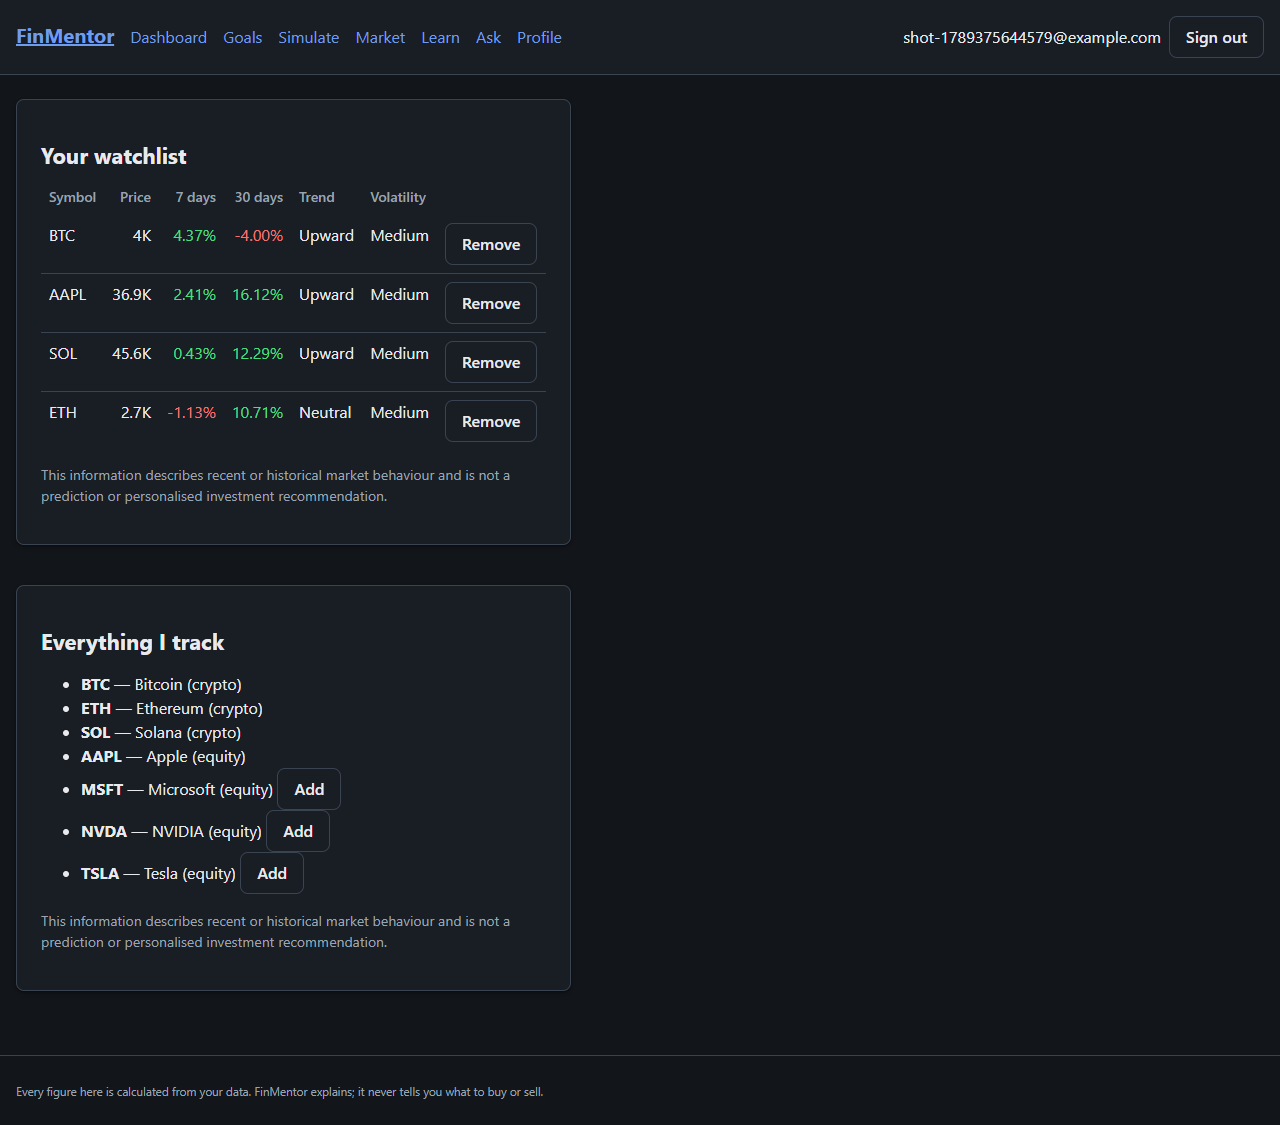
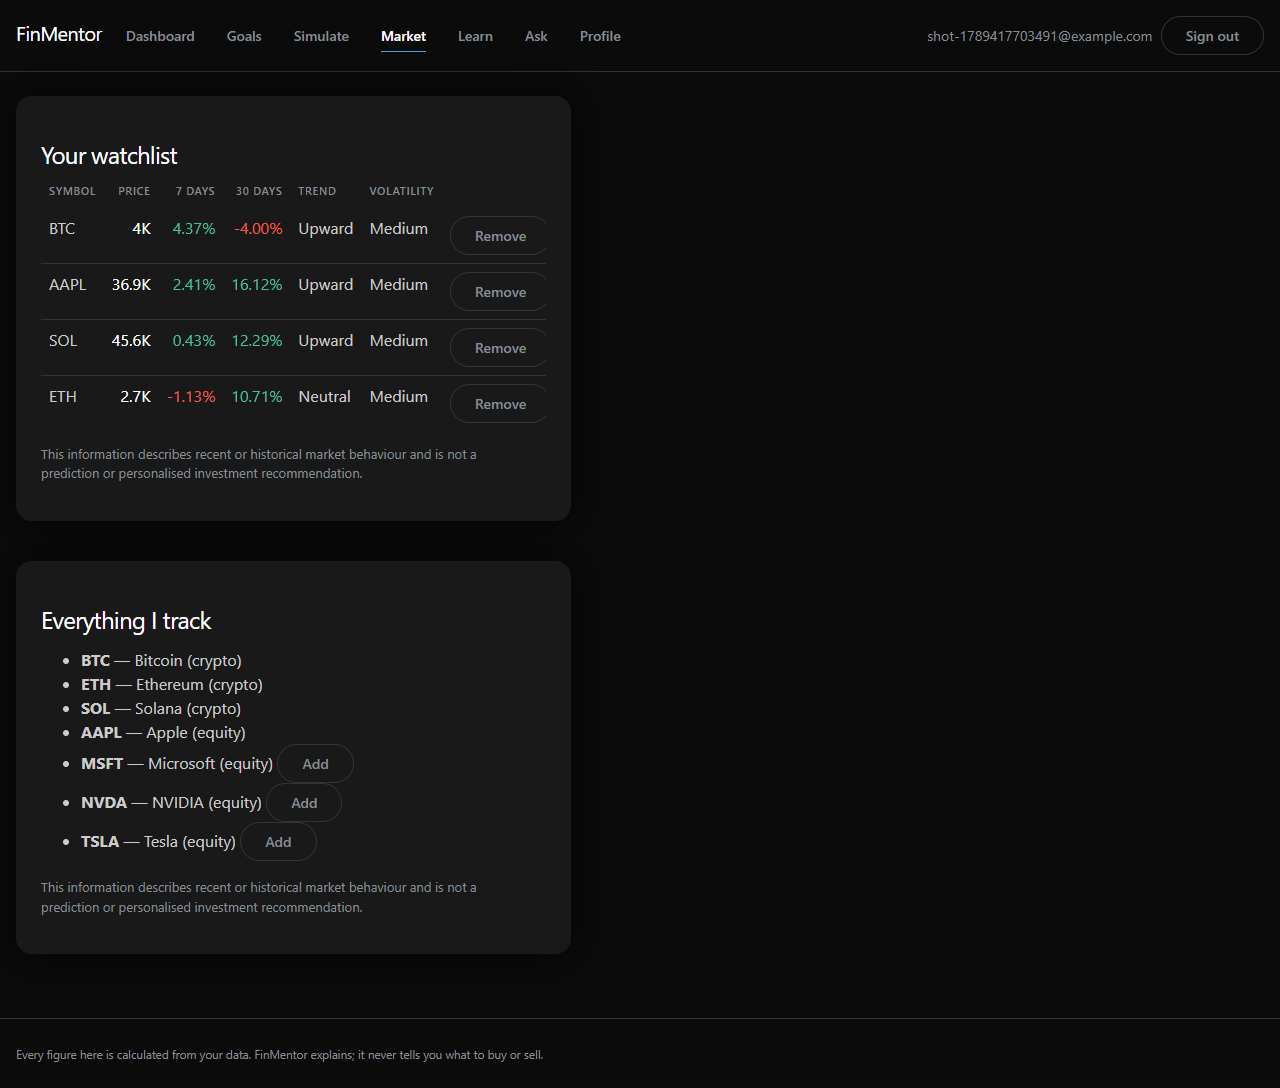
feat(web): the dashboard reads like the screen it is
Five changes, each from looking at the rendered page rather than the markup.

The score is sized like a score. It was a sentence at heading size with the
one figure that matters buried in the middle of it; it is now a grey label
over a display-size number, with the denominator in muted type beside it.

Two columns on a wide screen. `main` caps at the 68ch reading measure, which
is right for a form or a page of explanations and wrong for five independent
readouts: on a desktop it left half the screen black. The dashboard, and only
the dashboard, gets `wide cols`, with the score panel spanning both. Below
900px nothing applies and the sections stack as before. `main.wide` had been
dead CSS since it was written; this is what it was for.

Goals and watchlist rows were single run-on lines held together by middle
dots. They are now a name and a figure on one line, with the detail under it
in grey, so the figures form a column the eye can run down.

Loading is a skeleton shaped like the result rather than the word "Loading".
`AsyncBoundary` takes an optional `skeleton`, and keeps `aria-busy` on it, so
the shimmer in motion.css and the screen-reader announcement stay the same
declaration.

Small ones that were plainly wrong once visible: a points cell wrapping
"20.0 / 20" onto two lines and reading as two figures, a table caption
centred away from its table, and paired lists that lined up differently
depending on whether the JSX wrapped each pair in a div.
[…]

diff --git a/finmentor/web/src/styles/layout.css b/finmentor/web/src/styles/layout.css
@@ -146,7 +146,21 @@
 .whoami { margin: 0 0 0 auto; display: flex; align-items: center; gap: var(--space-2); }
 
 main { flex: 1; padding: 0 var(--space-3); max-width: var(--measure); }
-main.wide { max-width: none; }
+main.wide { max-width: 68rem; }
+
+/* Two columns on a wide screen, one everywhere else. The headline panel spans
+   both because the score is the thing the page exists to show; the four that
+   follow are independent readouts and sit beside each other happily.
+   Below 900px this rule simply does not apply and the sections stack. */
+@media (min-width: 900px) {
+  main.cols {
+    display: grid;
+    grid-template-columns: repeat(2, minmax(0, 1fr));
+    gap: var(--space-4);
+    align-items: start;
+  }
+  main.cols > section:first-child { grid-column: 1 / -1; }
+}
 
 footer { padding: var(--space-4) var(--space-3); }
 
@@ -173,6 +187,11 @@ fieldset { margin-block: var(--space-3); padding: var(--space-3); }
 
 /* Wide tables scroll inside themselves rather than scrolling the page. */
 .table-scroll { overflow-x: auto; }
+/* A caption is a label for the table, so it starts where the table starts. */
+caption { text-align: start; }
+/* "20.0 / 20" is one value and has to stay on one line; wrapped, it reads as
+   two figures stacked in a column of figures. */
+td.numeric, th.numeric { white-space: nowrap; }
 table { width: 100%; }
 th, td { padding: var(--space-2); text-align: left; vertical-align: top; }
 th[scope="row"] { font-weight: normal; }
@@ -374,8 +393,83 @@ tbody td { color: var(--color-mist); }
    every gain and loss the same shade of white. */
 td.numeric:not(.delta-positive):not(.delta-negative) { color: var(--color-text); }
 
+/* Some callers wrap each pair in a div (it keeps the JSX honest when the
+   pairs are mapped). `display: contents` drops the wrapper out of the grid so
+   both spellings produce the same two columns: label, then value. Without it
+   a wrapped list silently becomes a grid of stacked pairs and stops lining up
+   with the unwrapped one next to it. */
+dl.pairs > div { display: contents; }
+
 dl.pairs dt { color: var(--color-muted); font-weight: 400; font-size: 0.875rem; }
 dl.pairs dd { color: var(--color-text); }
+
+/* ---- the headline score -------------------------------------------------
+   The one figure on the dashboard that is sized like a figure. Display
+   tracking works here for the same reason it works on the landing headline:
+   the number is large enough for tight spacing to read as deliberate. */
+h2.score {
+  display: flex;
+  flex-direction: column;
+  gap: var(--space-1);
+  margin-bottom: var(--space-3);
+}
+.score__label {
+  font-size: 0.8125rem;
+  color: var(--color-muted);
+  letter-spacing: normal;
+}
+.score__value {
+  font-size: clamp(2.25rem, 6vw, 3rem);
+  line-height: 1;
+  letter-spacing: var(--tracking-display);
+  color: var(--color-text);
+}
+/* The denominator is context, not value: same line, a third of the weight of
+   attention, so the eye lands on the score itself. */
+.score__max {
+  font-size: 1rem;
+  color: var(--color-muted);
+  margin-inline-start: var(--space-2);
+  letter-spacing: normal;
+}
+
+/* ---- list rows ----------------------------------------------------------
+   A goal or a watchlist entry is a name, a figure, and a line of detail. As
+   one run-on sentence with separators it scans badly at five items and worse
+   at fifteen; split across two lines, the figures form a column the eye can
+   run down. */
+ul.rows { list-style: none; margin: 0; padding: 0; }
+ul.rows > li {
+  padding: var(--space-2) 0;
+  border-block-end: 1px solid var(--color-border);
+}
+ul.rows > li:last-child { border-block-end: 0; }
+.rows__head {
+  display: flex;
+  justify-content: space-between;
+  align-items: baseline;
+  gap: var(--space-3);
+}
+.rows__head strong { color: var(--color-text); font-weight: 500; }
+.rows__figure { color: var(--color-text); white-space: nowrap; }
+.rows__detail {
+  display: block;
+  margin-block-start: var(--space-1);
+  color: var(--color-muted);
+  font-size: 0.875rem;
+}
+
+/* ---- loading skeletons --------------------------------------------------
+   Shaped like what is coming, so the page resolves in place instead of
+   growing out of one line of text. The breathing comes from the shimmer in
+   motion.css, which hangs off the same `aria-busy` the boundary sets. */
+.skeleton {
+  background: var(--color-elevated);
+  border-radius: var(--radius-sm);
+}
+.skeleton--score { height: 3rem; width: min(12rem, 60%); margin-bottom: var(--space-3); }
+.skeleton--line { height: 1rem; width: min(24rem, 90%); }
+.skeleton--row { height: 1.5rem; margin-block-end: var(--space-2); }
 
 /* A figure is the loudest thing on the screen, and it gets there by size and
    tracking rather than by colour — the same move as the headlines. */

diff --git a/finmentor/web/src/pages/Dashboard.tsx b/finmentor/web/src/pages/Dashboard.tsx
@@ -28,7 +28,26 @@ const COMPONENT_LABELS: Record<string, string> = {
  */
 function HealthScore({ total }: { total: number }) {
   const shown = useCountUp(total);
-  return <>Financial health: {shown.toFixed(1)} / 100</>;
+  return <>{shown.toFixed(1)}</>;
+}
+
+/** A stand-in shaped like the finished screen. Five rows because the score
+ * always has five components, so the table below does not change height when
+ * the real one arrives. */
+function DashboardSkeleton() {
+  return (
+    <>
+      <section>
+        <div className="skeleton skeleton--score" />
+        <div className="skeleton skeleton--line" />
+      </section>
+      <section>
+        {[0, 1, 2, 3, 4].map((row) => (
+          <div key={row} className="skeleton skeleton--row" />
+        ))}
+      </section>
+    </>
+  );
 }
 
 export function Dashboard() {
@@ -38,7 +57,7 @@ export function Dashboard() {
   });
 
   return (
-    <AsyncBoundary isLoading={isLoading} error={error}>
+    <AsyncBoundary isLoading={isLoading} error={error} skeleton={<DashboardSkeleton />}>
       {data && !data.onboarded && (
         <section>
           <h2>Welcome</h2>
@@ -53,7 +72,17 @@ export function Dashboard() {
       {data?.onboarded && data.health && data.twin && data.dna && (
         <>
           <section>
-            <h2><HealthScore total={data.health.total} /></h2>
+            {/* The score is the reason to open this page, so it is sized like
+                it: the figure carries the heading and the label sits above it
+                in grey, rather than a sentence at heading size with the one
+                number that matters buried in the middle of it. */}
+            <h2 className="score">
+              <span className="score__label">Financial health</span>
+              <span className="score__value">
+                <HealthScore total={data.health.total} />
+                <span className="score__max">/ 100</span>
+              </span>
+            </h2>
             <div className="table-scroll">
               <table>
                 <caption className="disclaimer">
@@ -120,13 +149,17 @@ export function Dashboard() {
                 No goals yet. <Link to="/goals">Add one</Link>.
               </p>
             ) : (
-              <ul>
+              <ul className="rows">
                 {data.goals.map((goal) => (
                   <li key={goal.id}>
-                    <strong>{goal.name}</strong> — {goal.progress_pct.toFixed(1)}%
-                    ({compact(goal.current_amount)} of {compact(goal.target_amount)})
-                    {goal.estimated_completion &&
-                      ` · on track for ${goal.estimated_completion}`}
+                    <span className="rows__head">
+                      <strong>{goal.name}</strong>
+                      <span className="rows__figure">{goal.progress_pct.toFixed(1)}%</span>
+                    </span>
+                    <span className="rows__detail">
+                      {compact(goal.current_amount)} of {compact(goal.target_amount)}
+                      {goal.estimated_completion && `, on track for ${goal.estimated_completion}`}
+                    </span>
                   </li>
                 ))}
               </ul>
@@ -140,18 +173,24 @@ export function Dashboard() {
                 Nothing tracked. <Link to="/market">Add a symbol</Link>.
               </p>
             ) : (
-              <ul>
+              <ul className="rows">
                 {data.watchlist.map((item) => (
                   <li key={item.symbol}>
-                    <strong>{item.symbol}</strong> {compact(item.latest_price)} · 7d{" "}
-                    <span
-                      className={
-                        item.change_7d_pct >= 0 ? "delta-positive" : "delta-negative"
-                      }
-                    >
-                      {item.change_7d_pct.toFixed(2)}%
-                    </span>{" "}
-                    · {item.trend}
+                    <span className="rows__head">
+                      <strong>{item.symbol}</strong>
+                      <span className="rows__figure">
+                        {compact(item.latest_price)}{" "}
+                        <span
+                          className={
+                            item.change_7d_pct >= 0 ? "delta-positive" : "delta-negative"
+                          }
+                        >
+                          {item.change_7d_pct >= 0 ? "+" : ""}
+                          {item.change_7d_pct.toFixed(2)}%
+                        </span>
+                      </span>
+                    </span>
+                    <span className="rows__detail">7-day movement, trending {item.trend.toLowerCase()}</span>
                   </li>
                 ))}
               </ul>

diff --git a/finmentor/web/e2e/screenshots.spec.ts b/finmentor/web/e2e/screenshots.spec.ts
@@ -10,7 +10,29 @@
  * `flow.spec.ts`. They still fail loudly if the page never reaches the state
  * being photographed, because a screenshot of a blank page is worse than none.
  */
-import { expect, test } from "@playwright/test";
+import { expect, test, type Page } from "@playwright/test";
+
+/**
+ * Wait for the entrance to finish before photographing.
+ *
+ * Every page enters on a staggered fade (styles/motion.css), so a capture
+ * taken the moment the heading is visible catches the later sections at
+ * opacity 0 and documents a page that looks half-loaded. Only finite
+ * animations are awaited: the loading shimmer is infinite by design and would
+ * never resolve.
+ */
+async function settled(page: Page) {
+  await page.evaluate(() =>
+    Promise.all(
+      document.getAnimations()
+        .filter((animation) => {
+          const timing = animation.effect?.getComputedTiming();
+          return timing !== undefined && timing.iterations !== Infinity;
+        })
+        .map((animation) => animation.finished.catch(() => undefined)),
+    ),
+  );
+}
 
 const PASSWORD = "a-long-enough-password";
 //: Relative to `web/`, where Playwright runs — so up one level into the
@@ -60,9 +82,10 @@ test.describe("screenshots", () => {
     await page.getByRole("button", { name: "Finish" }).click();
 
     // --- 1. the dashboard -------------------------------------------------
-    await expect(page.getByRole("heading", { name: /financial health: 62\.3 \/ 100/i }))
+    await expect(page.getByRole("heading", { name: /financial health\s+62\.3\s*\/ 100/i }))
       .toBeVisible();
     await expect(page.getByText("Financial DNA")).toBeVisible();
+    await settled(page);
     await page.screenshot({ path: `${SHOTS}/dashboard.png`, fullPage: true });
 
     // --- 2. the delta colours ---------------------------------------------
@@ -90,6 +113,7 @@ test.describe("screenshots", () => {
     await expect(watchlist.locator(".delta-positive, .delta-negative").first())
       .toBeVisible();
 
+    await settled(page);
     await page.screenshot({ path: `${SHOTS}/deltas.png`, fullPage: true });
   });
 });

diff --git a/finmentor/web/src/components/AsyncBoundary.tsx b/finmentor/web/src/components/AsyncBoundary.tsx
@@ -21,6 +21,11 @@ interface AsyncBoundaryProps {
   emptyMessage?: string;
   /** Re-run the failed query. Offered on anything that might be transient. */
   onRetry?: () => void;
+  /** A stand-in shaped like the finished screen, shown instead of the word
+   * "Loading". Worth supplying wherever the real content is tall: the page
+   * then resolves in place rather than growing out from one line of text,
+   * which is the difference between a load and a layout shift. */
+  skeleton?: ReactNode;
   children: ReactNode;
 }
 
@@ -39,9 +44,15 @@ function worthRetrying(error: unknown): boolean {
 
 export function AsyncBoundary({
   isLoading, error, isEmpty = false, emptyMessage = "Nothing here yet.",
-  onRetry, children,
+  onRetry, skeleton, children,
 }: AsyncBoundaryProps) {
-  if (isLoading) return <p aria-busy="true">Loading…</p>;
+  // `aria-busy` carries both jobs: it announces the wait, and motion.css
+  // hangs the shimmer off the same attribute, so the two cannot drift.
+  if (isLoading) {
+    return skeleton
+      ? <div aria-busy="true" aria-label="Loading">{skeleton}</div>
+      : <p aria-busy="true">Loading…</p>;
+  }
 
   if (error) {
     return (

diff --git a/finmentor/web/src/components/Layout.tsx b/finmentor/web/src/components/Layout.tsx
@@ -43,12 +43,17 @@ export function Layout() {
         )}
       </header>
 
+      {/* `wide cols` for the dashboard only: it is the one page that is a
+          grid of independent panels rather than a column of prose, and the
+          68ch reading measure leaves half a desktop screen empty under it.
+          Everything else keeps the measure, because a form or a list of
+          explanations is read, not scanned. */}
       {/* Keyed on the path so the entrance replays on every navigation rather
           than only the first mount. Every page is already a list of top-level
           `section`s, so staggering main's children *is* the route transition —
           the page resolves card by card instead of the whole screen blinking
           over at once, and a one-section page still gets a clean fade. */}
-      <main key={pathname} className="stagger">
+      <main key={pathname} className={`stagger${pathname === "/dashboard" ? " wide cols" : ""}`}>
         <Outlet />
       </main>
 

diff --git a/finmentor/web/e2e/flow.spec.ts b/finmentor/web/e2e/flow.spec.ts
@@ -81,7 +81,7 @@ test.describe("signup to dashboard", () => {
     // 62.3 is what the engine scores this exact profile — the same number the
     // API test and the bot flow assert. If the client ever starts computing
     // its own, this is where it shows.
-    await expect(page.getByRole("heading", { name: /financial health: 62\.3 \/ 100/i }))
+    await expect(page.getByRole("heading", { name: /financial health\s+62\.3\s*\/ 100/i }))
       .toBeVisible();
 
     for (const component of ["Savings rate", "Emergency fund", "Debt load",

diff --git a/finmentor/app/services/health_score.py b/finmentor/app/services/health_score.py
@@ -165,7 +165,7 @@ def compute_health_score(twin: FinancialTwinOut) -> HealthScoreOut:
             name="budget_stability",
             points=stability,
             detail=(
-                "no planned budget set yet — neutral score"
+                "no planned budget set yet, so this scores neutral"
                 if deviation is None
                 else f"spending deviated {deviation * 100:.1f}% from the plan"
             ),

diff --git a/finmentor/app/api/deps.py b/finmentor/app/api/deps.py
@@ -136,7 +136,7 @@ COMPONENT_VERDICT_TRAIT = {
 #: A score note inside a detail string — "(20 pts at 25%)". Prose only in the
 #: chat snapshot: a raw scoring rule is one more number to misread.
 _SCORE_NOTE = re.compile(r"\s*\((?:[^()]*\bpts?\b[^()]*)\)")
-_NEUTRAL_NOTE = re.compile(r"\s*—\s*neutral score\s*$")
+_NEUTRAL_NOTE = re.compile(r"\s*,?\s*so this scores neutral\s*$")
 
 
 def plain_detail(detail: str) -> str:
